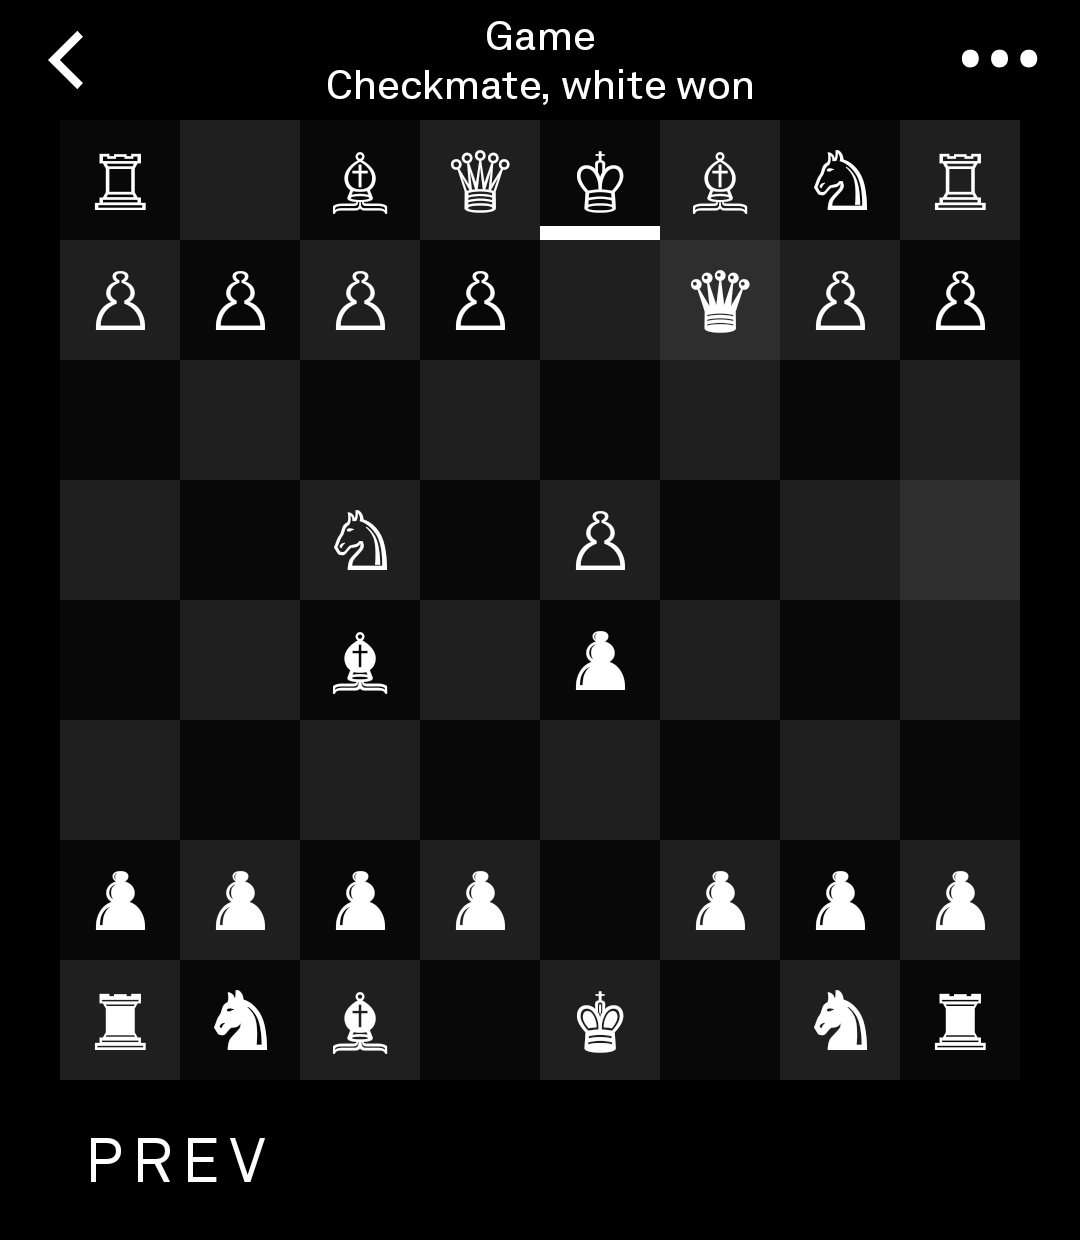
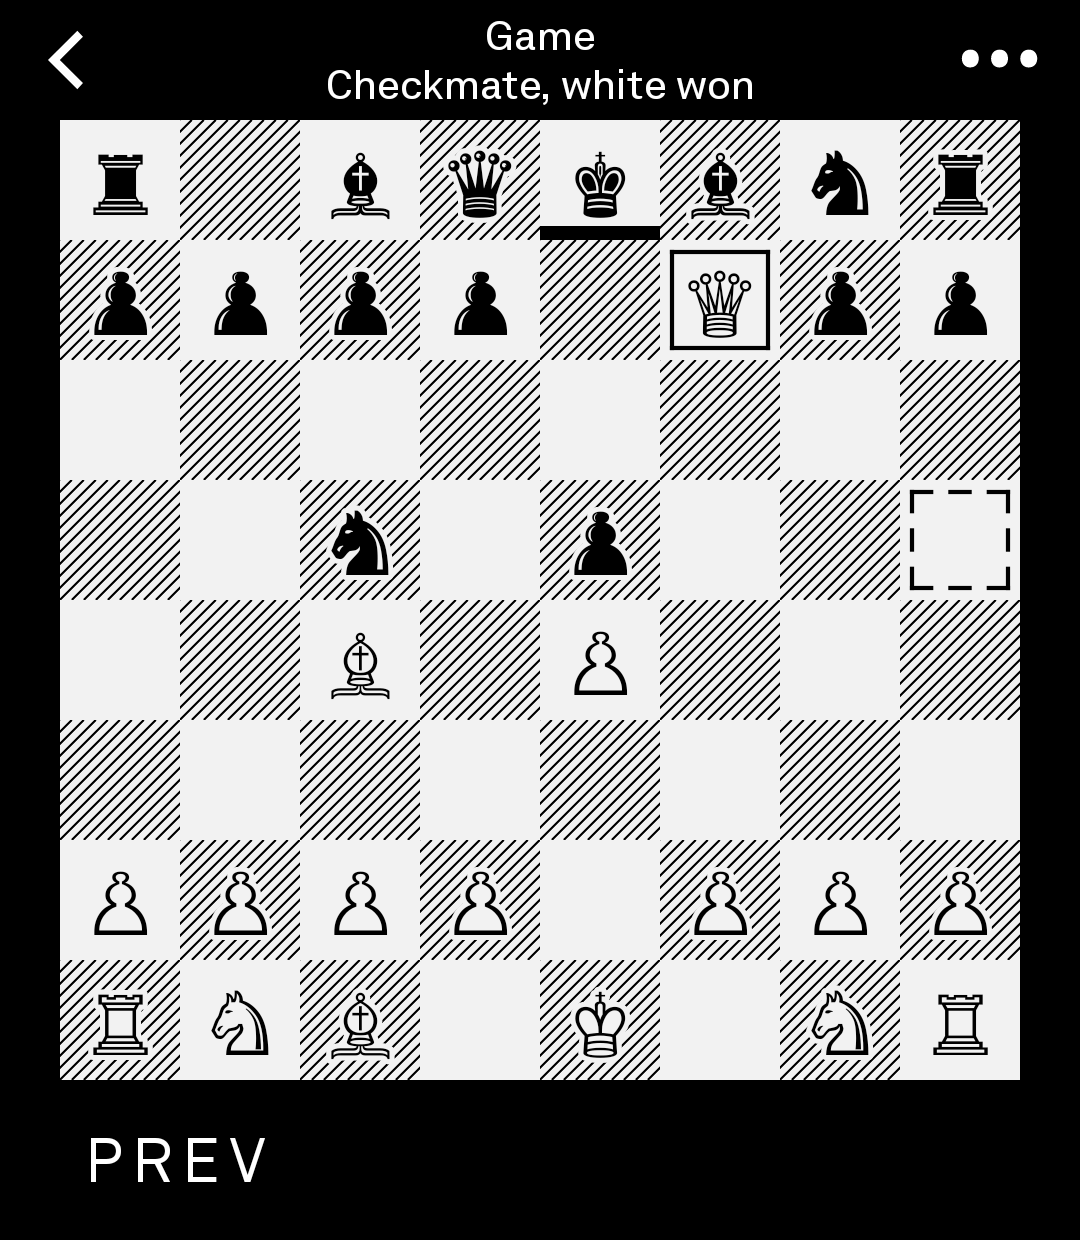
docs(tool): retake the README screenshots on the newspaper board
Retaken on a Light Phone III, so the board is the newspaper diagram with
the last move framed, and the text is in Akkurat. The README's alt text
follows the new shots and says the last move is framed, not shaded.

diff --git a/README.md b/README.md
@@ -4,8 +4,8 @@
 friend, and your move.
 
 <p>
-  <img src="docs/screenshots/games.png" width="260" alt="The Games list: games against Bob's LightIII, each with its status — checkmate, waiting for opponent, their turn, resigned, draw">
-  <img src="docs/screenshots/game.png" width="260" alt="A finished game: checkmate, white won, with the mated king marked and the last move shaded">
+  <img src="docs/screenshots/games.png" width="260" alt="The Games list: games against Cathryn, each with its status — their turn, checkmate, waiting for opponent">
+  <img src="docs/screenshots/game.png" width="260" alt="A finished game: checkmate, white won, with the mated king marked and the last move framed">
   <img src="docs/screenshots/remote.png" width="260" alt="Remote: New game and Join by code">
 </p>
 
@@ -34,7 +34,7 @@ Reset the board and play again.
   ellipsis.
 - Checkmate, stalemate, threefold repetition, the fifty-move rule and insufficient material are
   all recognized, and the game says how it ended.
-- A king in check is marked. The last move can be shaded on the board — every last move, only
+- A king in check is marked. The last move can be marked on the board — every last move, only
   your opponent's, or none (**Info → Board**).
 - You play under a name like `blueberry764`, so a game reads "blueberry764 vs orange489". Change
   yours under **Info → Account**.
